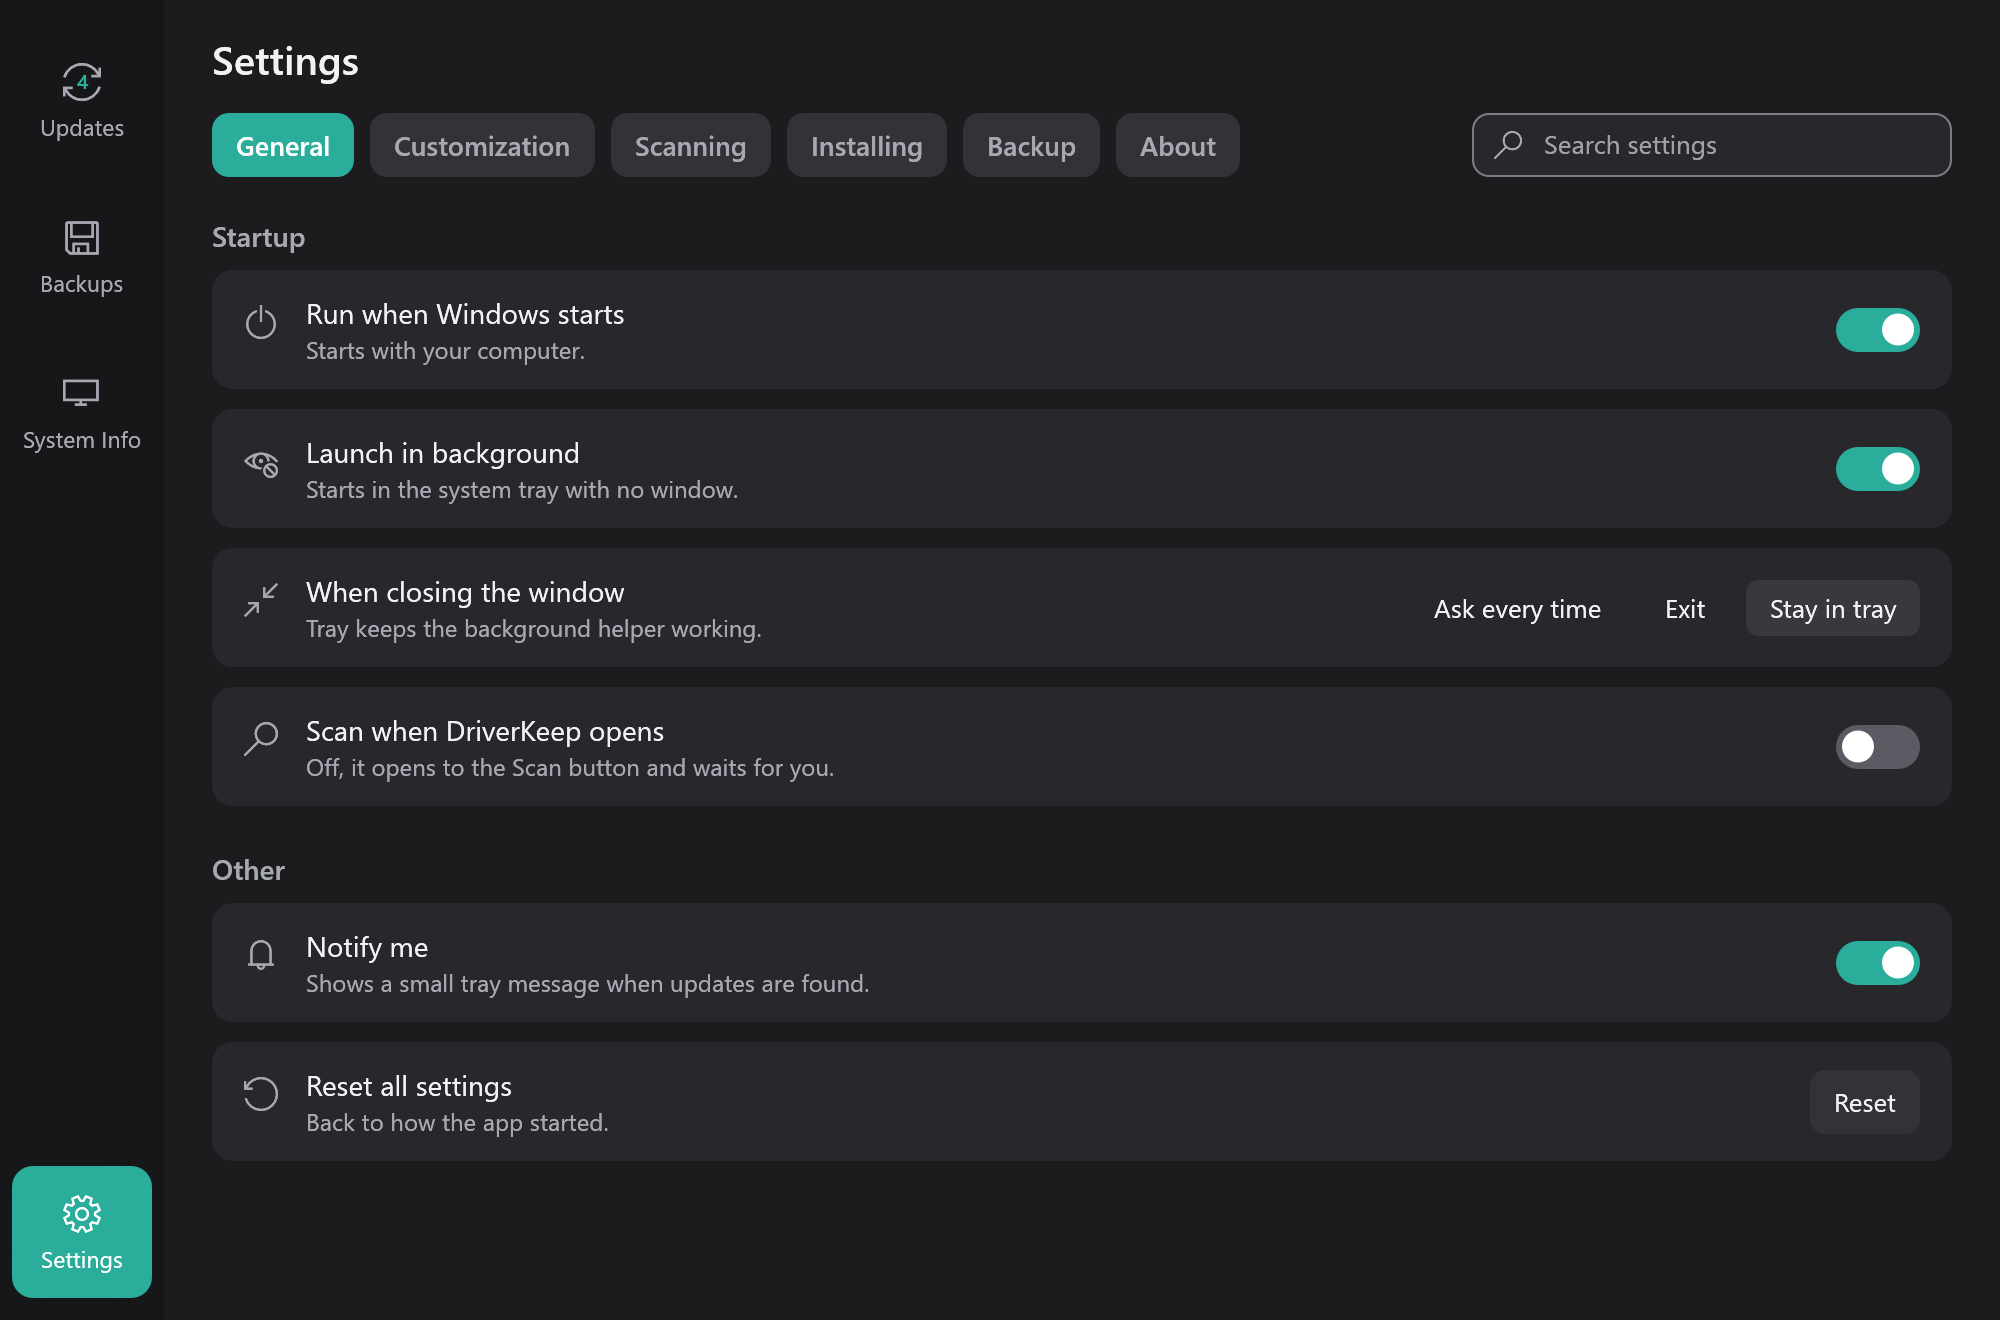
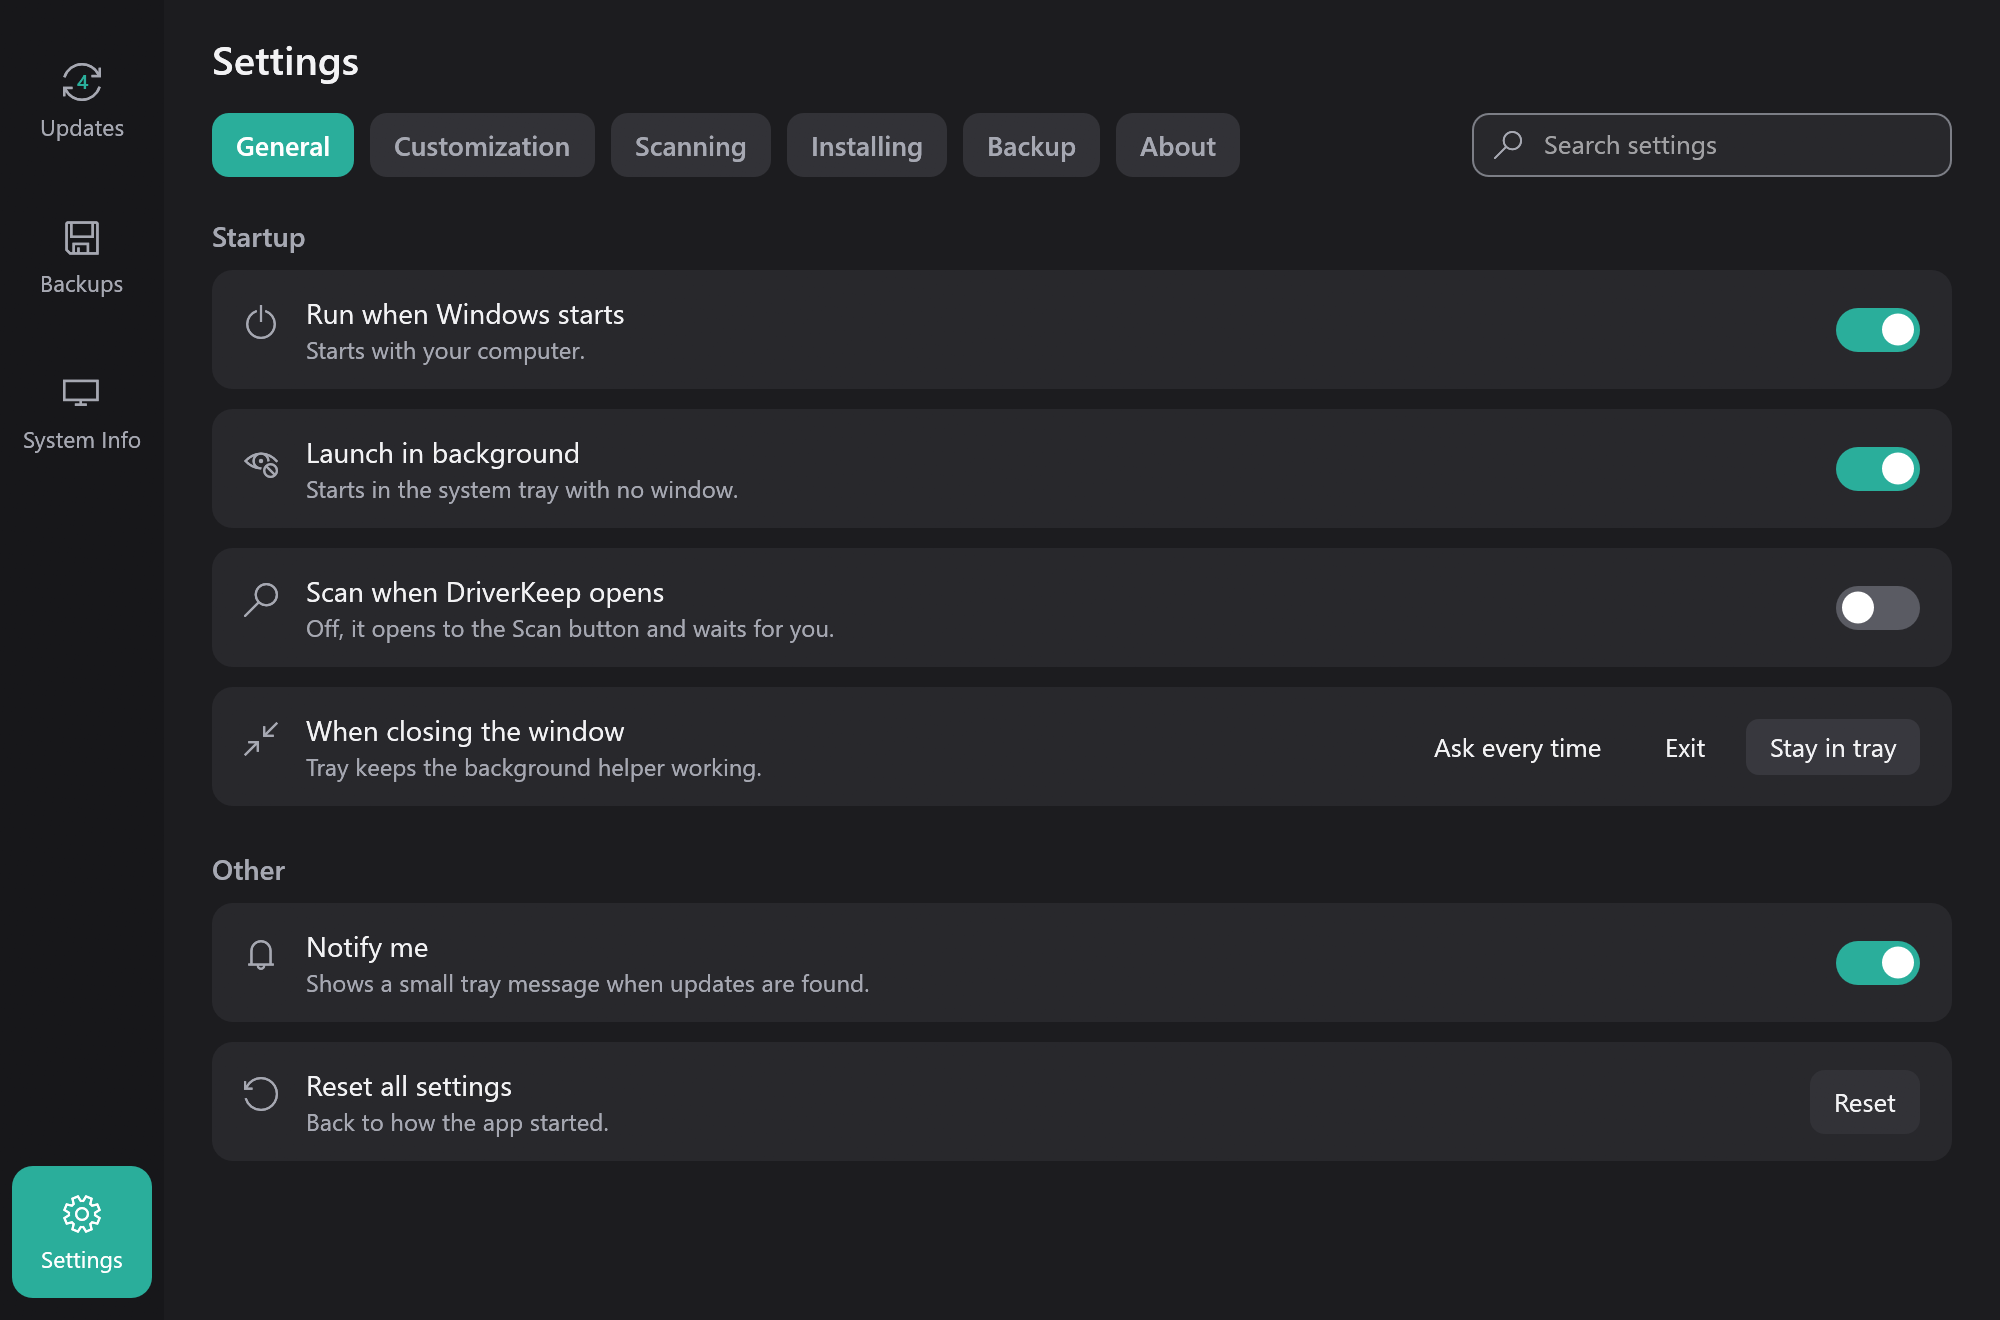
DriverKeep 1.0.21: settings search filters in place with live controls

diff --git a/src/ui/settings_page.rs b/src/ui/settings_page.rs
@@ -132,7 +132,28 @@ impl App {
         let mut changed = false;
         egui::ScrollArea::vertical().auto_shrink(false).show(ui, |ui| {
             if searching {
-                self.search_results(ui);
+                // The search works as a filter: every tab is drawn, but only the settings that match
+                // are shown, with their real controls, so they can be changed right here.
+                let found = search_settings(&self.settings_search);
+                ui.add_space(6.0);
+                ui.label(
+                    RichText::new(format!("{} result{}", found.len(), plural(found.len())))
+                        .font(bold(14.0))
+                        .color(pal().soft),
+                );
+                ui.add_space(4.0);
+                if found.is_empty() {
+                    soft(ui, "Nothing matches. Try a different word, like \"backup\", \"schedule\" or \"restart\".");
+                    return;
+                }
+                set_search_matches(Some(found.iter().map(|(_, title, _)| title.to_string()).collect()));
+                self.general_tab(ui, &mut changed, &mut startup_changed);
+                self.customization_tab(ui, &mut changed);
+                self.scanning_tab(ui, &mut changed, &mut startup_changed);
+                self.installing_tab(ui, &mut changed);
+                self.backup_tab(ui, &mut changed);
+                self.about_tab(ui, &mut changed);
+                set_search_matches(None);
                 return;
             }
             match tab {
@@ -161,6 +182,9 @@ impl App {
         setting(ui, ICON_HIDE, "Launch in background", "Starts in the system tray with no window.", |ui| {
             *startup_changed |= toggle(ui, &mut s.start_hidden);
         });
+        setting(ui, ICON_SCAN, "Scan when DriverKeep opens", "Off, it opens to the Scan button and waits for you.", |ui| {
+            *changed |= toggle(ui, &mut s.scan_on_open);
+        });
         setting(ui, ICON_TRAY, "When closing the window", "Tray keeps the background helper working.", |ui| {
             for (choice, label) in [
                 (CloseChoice::Tray, "Stay in tray"),
@@ -169,9 +193,6 @@ impl App {
             ] {
                 *startup_changed |= ui.selectable_value(&mut s.close_choice, choice, label).changed();
             }
-        });
-        setting(ui, ICON_SCAN, "Scan when DriverKeep opens", "Off, it opens to the Scan button and waits for you.", |ui| {
-            *changed |= toggle(ui, &mut s.scan_on_open);
         });
 
         group_title(ui, "Other");
@@ -219,6 +240,7 @@ impl App {
             *changed |= toggle(ui, &mut s.follow_windows_accent);
         });
         let follow = s.follow_windows_accent;
+        if visible("Accent color") {
         ui.add_space(6.0);
         card().show(ui, |ui| {
             ui.set_width(ui.available_width());
@@ -260,8 +282,10 @@ impl App {
                 });
             });
         });
+        }
 
         group_title(ui, "Preview");
+        if visible("Preview") {
         card().show(ui, |ui| {
             ui.set_width(ui.available_width());
             // The sample sits in its own outlined box so it reads as an example, not as settings.
@@ -319,6 +343,7 @@ impl App {
                     ui.label(small("The bar fills as an update downloads or installs. Click or drag it, or press Update Everything."));
                 });
         });
+        }
     }
 
     fn scanning_tab(&mut self, ui: &mut egui::Ui, changed: &mut bool, startup_changed: &mut bool) {
@@ -584,6 +609,7 @@ impl App {
     fn about_tab(&mut self, ui: &mut egui::Ui, changed: &mut bool) {
         group_title(ui, "DriverKeep");
         // Like the other rows, but the version number is in the accent color.
+        if visible("Version") {
         card().show(ui, |ui| {
             ui.set_width(ui.available_width());
             ui.horizontal(|ui| {
@@ -601,6 +627,7 @@ impl App {
             });
         });
         ui.add_space(4.0);
+        }
         let mut check = false;
         let mut view = false;
         let checking = self.checking_app;
@@ -636,13 +663,15 @@ impl App {
         setting(ui, ICON_DRIVERS, "Update DriverKeep automatically", "Each scan checks GitHub and installs any later version by itself.", |ui| {
             *changed |= toggle(ui, &mut s.auto_update_app);
         });
-        group_title(ui, "Credits");
-        card().show(ui, |ui| {
-            ui.set_width(ui.available_width());
-            ui.label(small("Created by avatarmanz"));
-            ui.label(small("Built with Claude by Anthropic"));
-            ui.label(small("Made with Craft Anything"));
-        });
+        if !searching_settings() {
+            group_title(ui, "Credits");
+            card().show(ui, |ui| {
+                ui.set_width(ui.available_width());
+                ui.label(small("Created by avatarmanz"));
+                ui.label(small("Built with Claude by Anthropic"));
+                ui.label(small("Made with Craft Anything"));
+            });
+        }
     }
 }
 
@@ -807,45 +836,6 @@ fn search_settings(query: &str) -> Vec<(SettingsTab, &'static str, &'static str)
     }
     found.sort_by(|a, b| b.0.cmp(&a.0));
     found.into_iter().map(|(_, tab, title, detail)| (tab, title, detail)).collect()
-}
-
-impl App {
-    /// What the settings page shows instead of a tab while something is typed in the search box.
-    fn search_results(&mut self, ui: &mut egui::Ui) {
-        let found = search_settings(&self.settings_search);
-        group_title(ui, &format!("{} result{}", found.len(), plural(found.len())));
-        if found.is_empty() {
-            soft(ui, "Nothing matches. Try a different word, like \"backup\", \"schedule\" or \"restart\".");
-            return;
-        }
-        let mut open = None;
-        for (tab, title, detail) in found {
-            let name = SettingsTab::ALL.iter().find(|(t, _)| *t == tab).map_or("", |(_, n)| *n);
-            card().show(ui, |ui| {
-                ui.set_width(ui.available_width());
-                ui.horizontal(|ui| {
-                    beside_centered(ui, 150.0, |ui| {
-                        ui.vertical(|ui| {
-                            ui.spacing_mut().item_spacing.y = 1.0;
-                            ui.label(RichText::new(title).size(14.0));
-                            ui.label(small(detail));
-                        });
-                    });
-                    ui.with_layout(Layout::right_to_left(Align::Center), |ui| {
-                        if secondary(ui, "Go", true) {
-                            open = Some(tab);
-                        }
-                        pill(ui, name, BLUE);
-                    });
-                });
-            });
-            ui.add_space(4.0);
-        }
-        if let Some(tab) = open {
-            self.settings_tab = tab;
-            self.settings_search.clear();
-        }
-    }
 }
 
 #[cfg(test)]

diff --git a/src/ui/look.rs b/src/ui/look.rs
@@ -490,6 +490,10 @@ pub fn setting_with(
     detail: &str,
     control: impl FnOnce(&mut egui::Ui),
 ) {
+    // While the settings are being searched, only the matching ones are drawn.
+    if !visible(title) {
+        return;
+    }
     card().show(ui, |ui| {
         ui.set_width(ui.available_width());
         ui.horizontal(|ui| {
@@ -506,7 +510,32 @@ pub fn setting_with(
     ui.add_space(4.0);
 }
 
+thread_local! {
+    /// The titles of the settings that match what's typed in the settings search box, while it's in use.
+    static SEARCH_MATCHES: std::cell::RefCell<Option<std::collections::HashSet<String>>> =
+        const { std::cell::RefCell::new(None) };
+}
+
+/// Turns the settings filter on (with the matching titles) or off (None).
+pub fn set_search_matches(matches: Option<std::collections::HashSet<String>>) {
+    SEARCH_MATCHES.with(|m| *m.borrow_mut() = matches);
+}
+
+/// True when the settings search is narrowing down what's shown.
+pub fn searching_settings() -> bool {
+    SEARCH_MATCHES.with(|m| m.borrow().is_some())
+}
+
+/// Whether the setting with this title should be drawn: always, unless a search is hiding it.
+pub fn visible(title: &str) -> bool {
+    SEARCH_MATCHES.with(|m| m.borrow().as_ref().is_none_or(|set| set.contains(title)))
+}
+
 pub fn group_title(ui: &mut egui::Ui, text: &str) {
+    // The group headings are left out of search results, where the groups would often be empty.
+    if searching_settings() {
+        return;
+    }
     ui.add_space(12.0);
     ui.label(RichText::new(text).font(bold(14.0)).color(pal().soft));
     ui.add_space(2.0);
